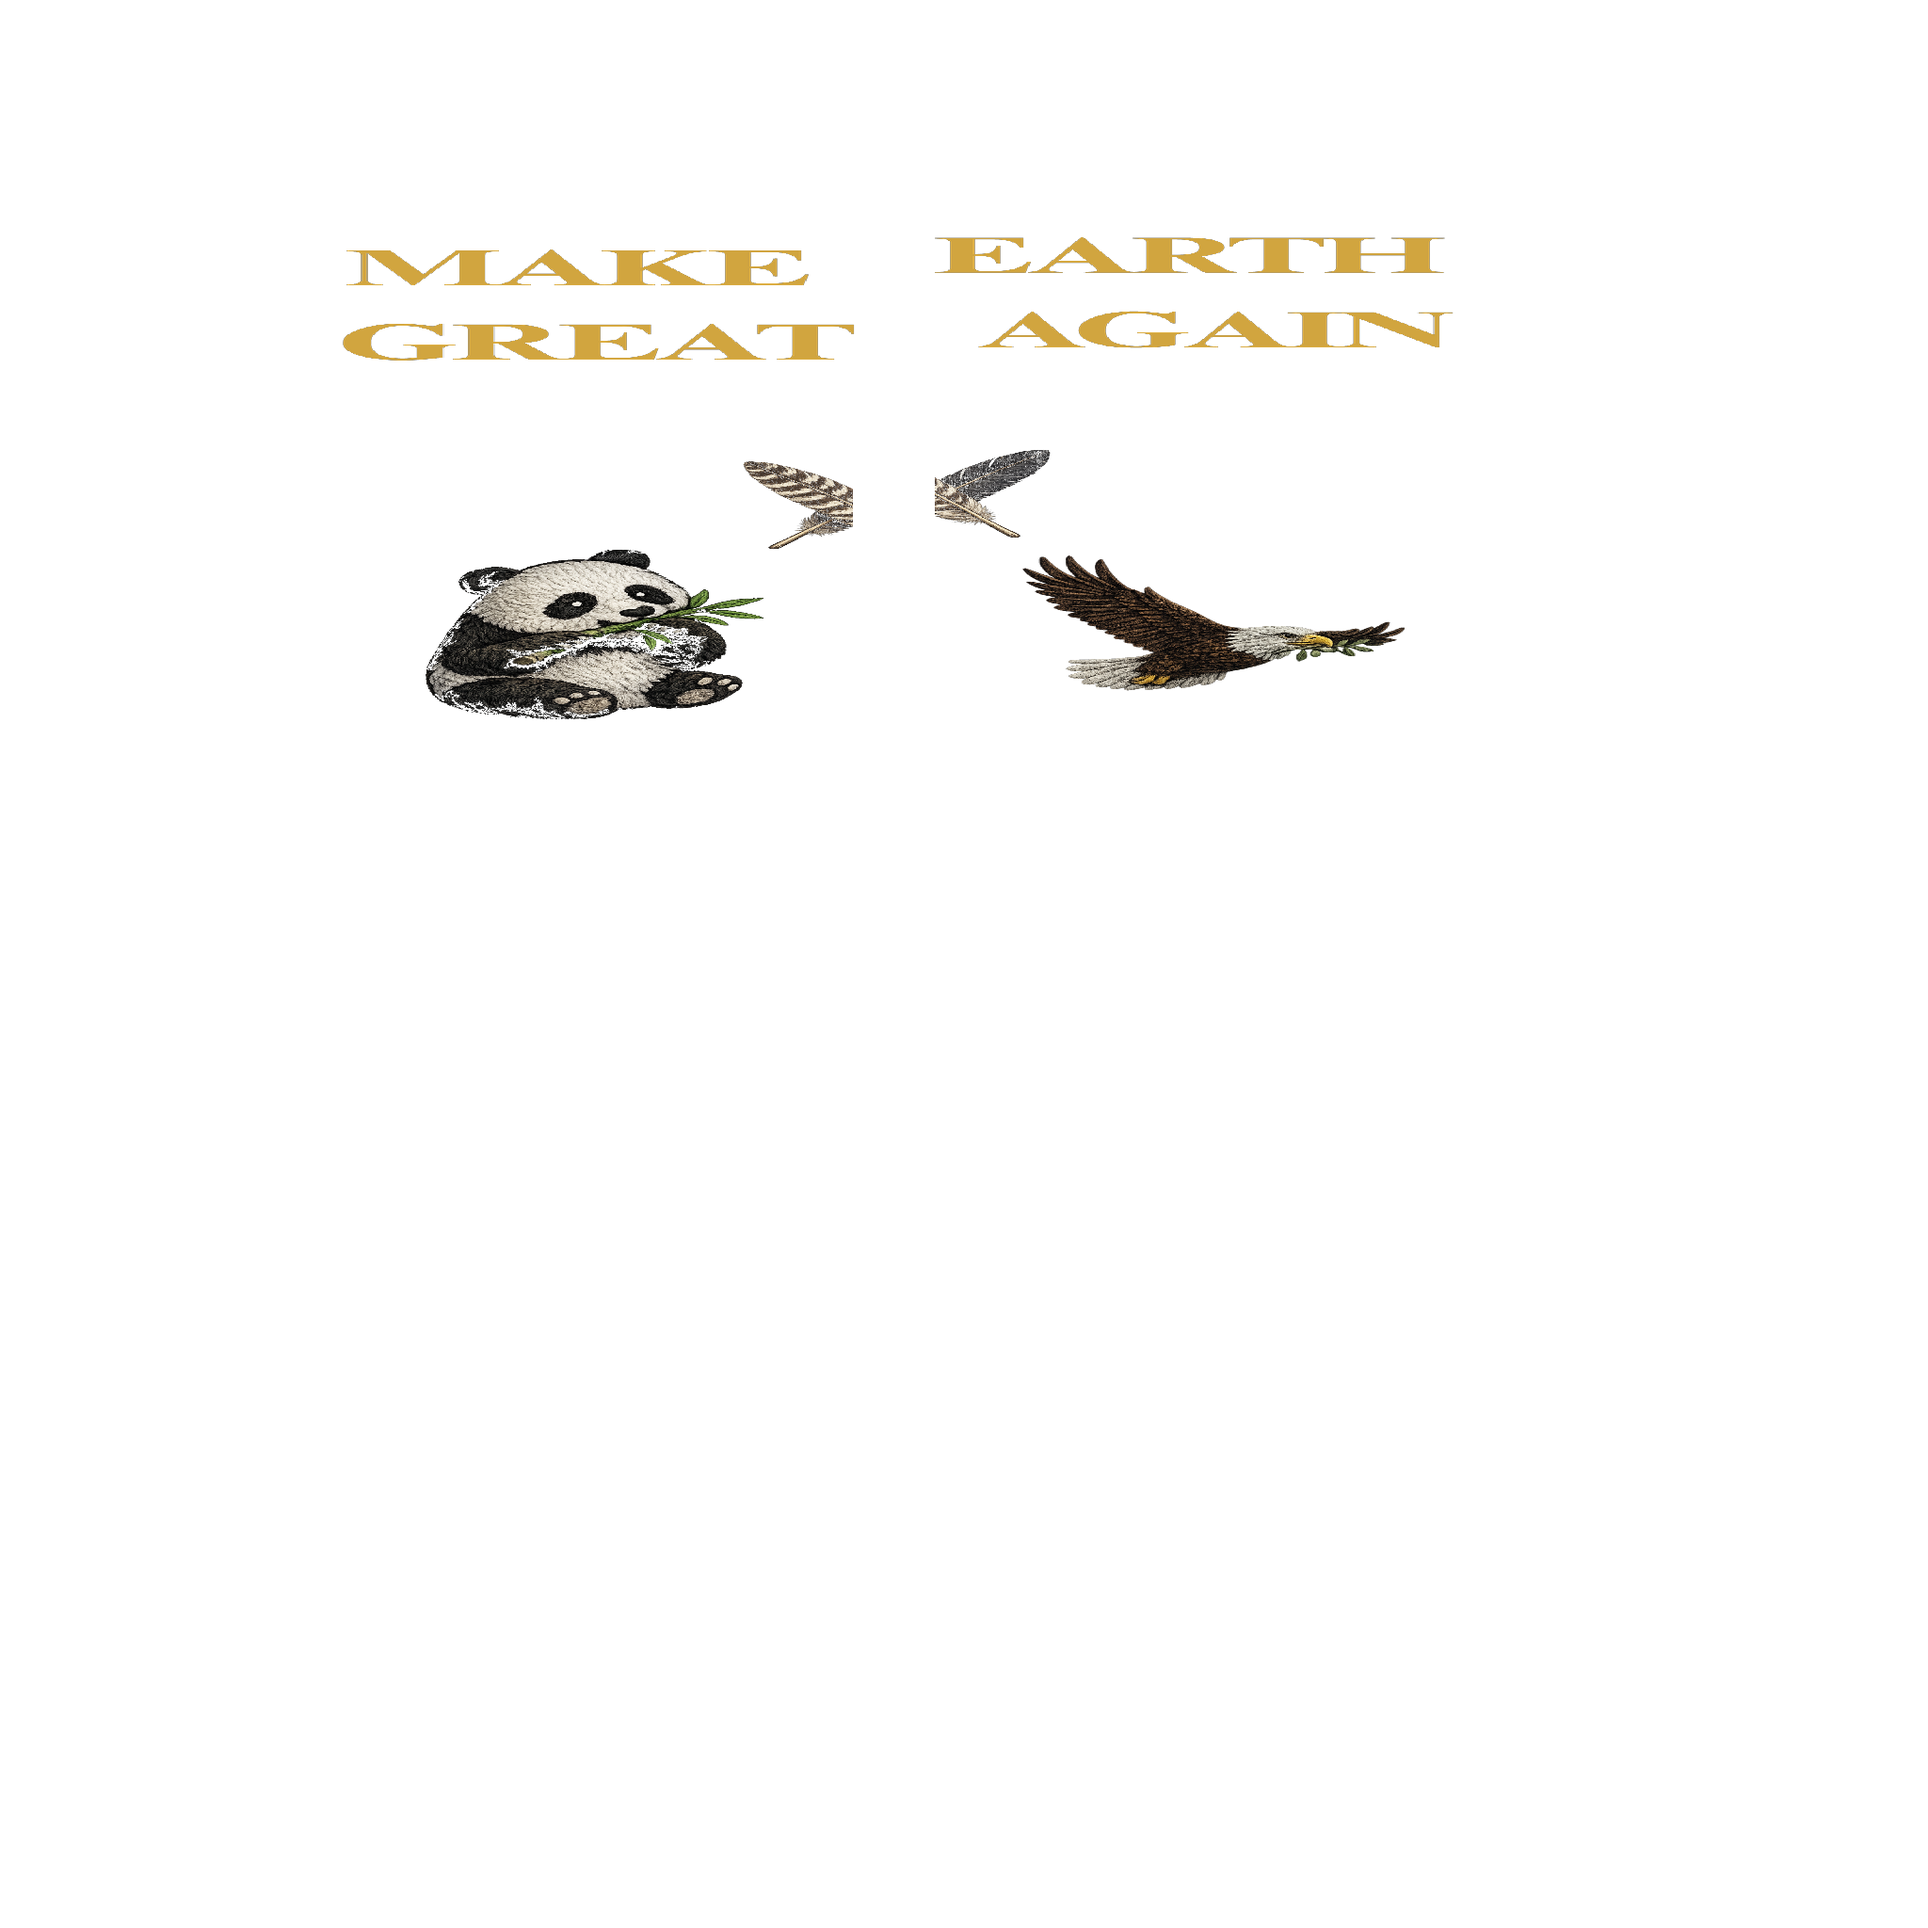
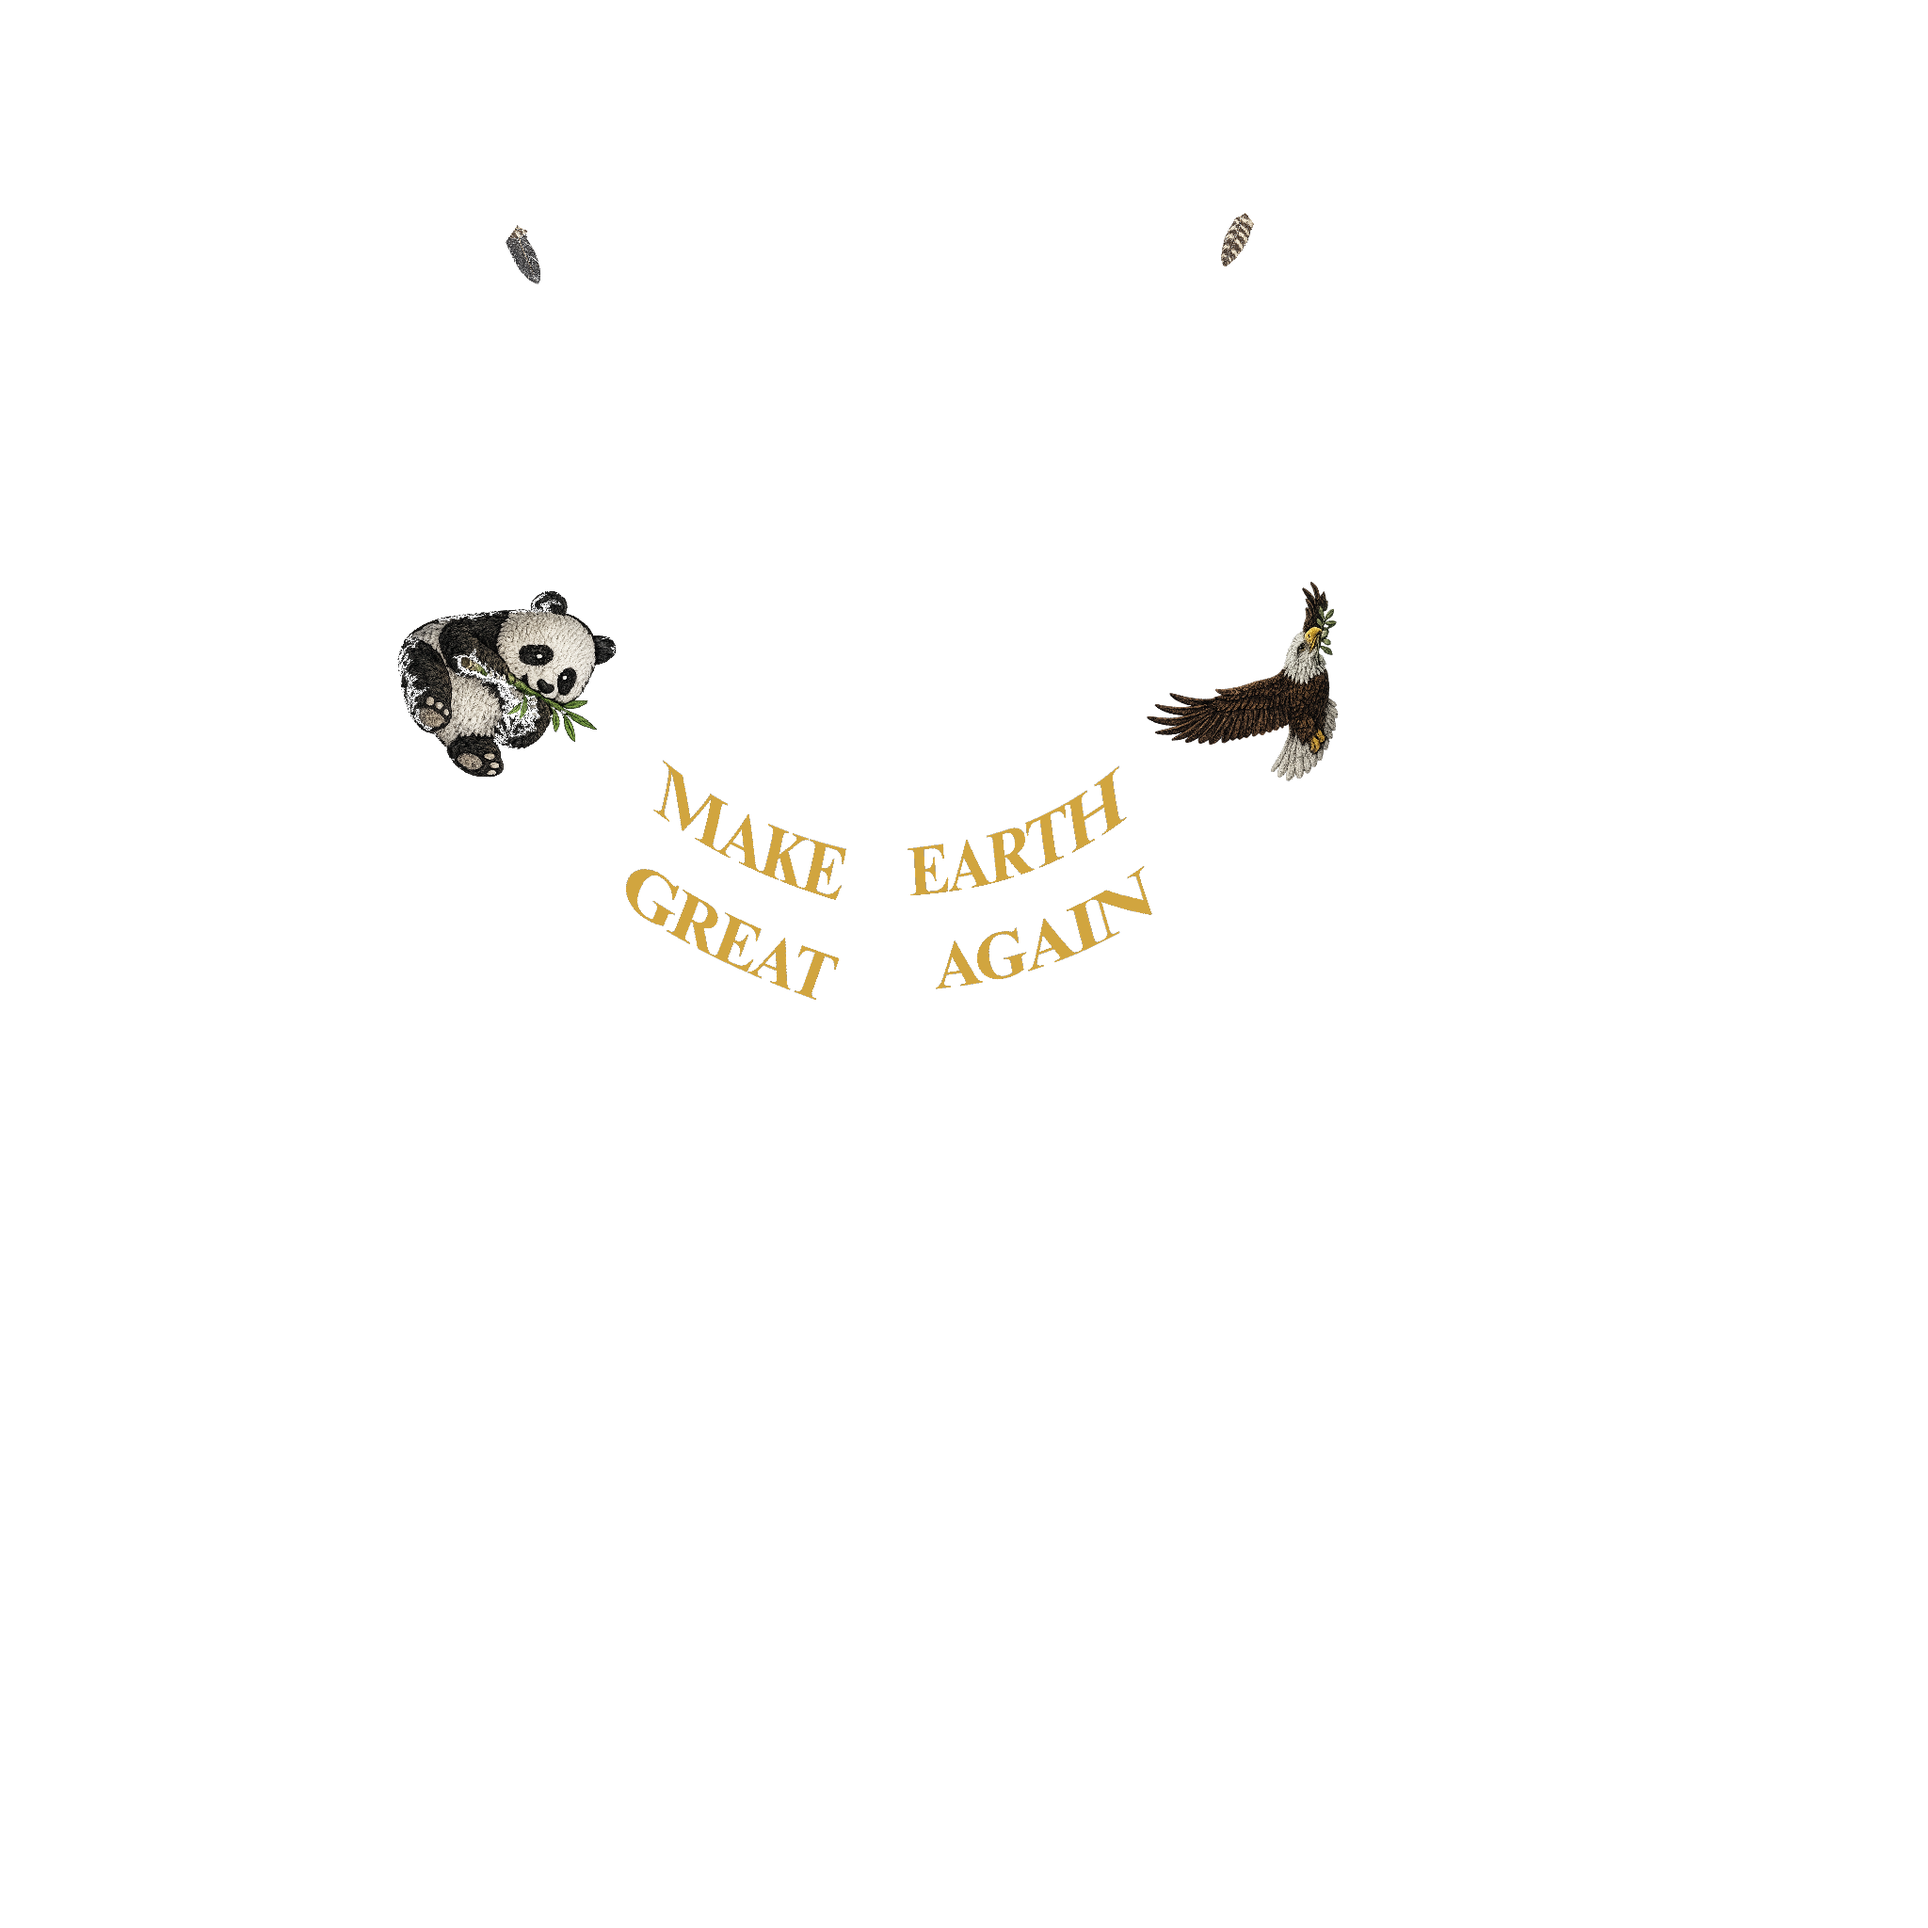
feat(hat): bake MEGA front + side mascots + back feathers via 3D projection
Per-triangle UV rasterizer with barycentric 3D position lookup. Each decal is
projected orthographically from its native panel direction:

  MEGA (MAGA-cap style) on -y front face — full width, bold gold text
  Panda  on -x cap-left side panel
  Eagle  on +x cap-right side panel
  Feathers on +y back panel center

UV islands clustered via DSU on 8-connected grid; only the two big outer
panels (V_min > 0.4, V_max > 0.7) are rasterized — inner shells skipped.
Disjoint 3D AABB zones prevent decals from overpainting one another.

Atlas mapping verified: with Three.js flipY=true, Blender-storage py == glTF V * H.

diff --git a/scripts/bake_cap_decals.py b/scripts/bake_cap_decals.py
@@ -1,0 +1,242 @@
+"""Bake decals — 3D-projection rasterizer (v3, correct mapping).
+
+Per-triangle UV rasterization with barycentric 3D position interpolation.
+For each pixel, project 3D position orthographically onto each decal's tangent
+plane and sample the decal image. First decal whose AABB matches wins.
+
+Cap-local axes (verified):
+  -y = forward (brim), +y = back (strap), +z = up (apex)
+  bbox: x=±4.74, y=[-4.82, +4.54], z=[+0.04, +5.84]
+
+Atlas mapping (verified by inspect-cap.py):
+  outer_left:  U=[0.143, 0.458], V=[0.441, 0.883]
+    front face → V≈0.44, back face → V≈0.88, apex → V≈0.73
+    cap-center seam → U≈0.43, cap-outer → U≈0.18
+  outer_right: U=[0.469, 0.774], V=[0.446, 0.890]
+
+Inner shells exist at V=[0.008, 0.487] — must be filtered out by island.
+
+Three.js flipY=true: atlas Blender-storage py == glTF V * H, direct.
+"""
+import bpy, time
+from mathutils import Vector
+
+GLB = '/Users/z/work/osage/store/public/models/baseball_cap.glb'
+OUT = '/Users/z/work/osage/store/public/images/cap_decals_atlas.png'
+PUB = '/Users/z/work/osage/store/public/images'
+TEX = 2048
+
+bpy.ops.wm.read_factory_settings(use_empty=True)
+bpy.ops.import_scene.gltf(filepath=GLB)
+mainCap = next(o for o in bpy.data.objects
+               if o.type == 'MESH' and o.parent and o.parent.name == 'mainCap')
+me = mainCap.data
+me.calc_loop_triangles()
+uvl = me.uv_layers.active.data
+
+# --- UV-island clustering at the polygon level ---
+poly_meta = []
+for poly in me.polygons:
+    uv_pts = [uvl[li].uv.copy() for li in poly.loop_indices]
+    poly_meta.append({
+        'uv_min': (min(p.x for p in uv_pts), min(p.y for p in uv_pts)),
+        'uv_max': (max(p.x for p in uv_pts), max(p.y for p in uv_pts)),
+    })
+GRID = 0.005
+cells = {}
+for i, p in enumerate(poly_meta):
+    cx = int((p['uv_min'][0] + p['uv_max'][0]) / 2 / GRID)
+    cy = int((p['uv_min'][1] + p['uv_max'][1]) / 2 / GRID)
+    cells.setdefault((cx, cy), []).append(i)
+parent = list(range(len(poly_meta)))
+def find(a):
+    while parent[a] != a:
+        parent[a] = parent[parent[a]]; a = parent[a]
+    return a
+def union(a, b):
+    ra, rb = find(a), find(b)
+    if ra != rb: parent[ra] = rb
+for (cx, cy), pids in cells.items():
+    for dx in (-1, 0, 1):
+        for dy in (-1, 0, 1):
+            if dx == 0 and dy == 0: continue
+            nbr = cells.get((cx+dx, cy+dy))
+            if nbr:
+                for a in pids:
+                    for b in nbr:
+                        union(a, b)
+    if len(pids) > 1:
+        for j in range(1, len(pids)):
+            union(pids[0], pids[j])
+poly_island = [find(i) for i in range(len(poly_meta))]
+# Find the two big outer-panel islands by size + V range.
+island_size = {}
+island_v_min = {}
+island_v_max = {}
+for i, p in enumerate(poly_meta):
+    iid = poly_island[i]
+    island_size[iid] = island_size.get(iid, 0) + 1
+    island_v_min[iid] = min(island_v_min.get(iid, 1.0), p['uv_min'][1])
+    island_v_max[iid] = max(island_v_max.get(iid, 0.0), p['uv_max'][1])
+big = sorted(island_size.items(), key=lambda kv: kv[1], reverse=True)
+outer_islands = set()
+for iid, _ in big:
+    if island_v_min[iid] > 0.4 and island_v_max[iid] > 0.7:
+        outer_islands.add(iid)
+    if len(outer_islands) >= 2: break
+print(f'islands: {len(island_size)} | big-6: {[(iid, island_size[iid], round(island_v_min[iid],3), round(island_v_max[iid],3)) for iid, _ in big]}')
+print(f'outer panels selected: {len(outer_islands)}')
+
+tris = []
+for t in me.loop_triangles:
+    if poly_island[t.polygon_index] not in outer_islands:
+        continue
+    uvs = [uvl[li].uv.copy() for li in t.loops]
+    p3 = [me.vertices[vi].co.copy() for vi in t.vertices]
+    cx_ = (p3[0].x + p3[1].x + p3[2].x) / 3
+    cy_ = (p3[0].y + p3[1].y + p3[2].y) / 3
+    cz_ = (p3[0].z + p3[1].z + p3[2].z) / 3
+    tris.append({'uvs': uvs, 'p3': p3, 'cx': cx_, 'cy': cy_, 'cz': cz_})
+print(f'outer-panel tris: {len(tris)}')
+
+def load_decal(path):
+    img = bpy.data.images.load(path, check_existing=False)
+    img.colorspace_settings.name = 'sRGB'
+    return {'pixels': list(img.pixels), 'w': img.size[0], 'h': img.size[1]}
+
+dimg = {
+    'mega':     load_decal(f'{PUB}/mega_front_text.png'),
+    'eagle':    load_decal(f'{PUB}/eagle_decal.png'),
+    'feathers': load_decal(f'{PUB}/feathers_decal.png'),
+    'panda':    load_decal(f'{PUB}/panda_decal.png'),
+}
+
+def sample(img, sx, sy):
+    if sx < 0.0 or sx >= 1.0 or sy < 0.0 or sy >= 1.0:
+        return None
+    px = int(sx * img['w'])
+    py = int(sy * img['h'])
+    if px >= img['w']: px = img['w'] - 1
+    if py >= img['h']: py = img['h'] - 1
+    idx = (py * img['w'] + px) * 4
+    p = img['pixels']
+    return (p[idx], p[idx+1], p[idx+2], p[idx+3])
+
+# Disjoint zones: any pixel matches at most ONE decal.
+#   front face (y < -1.5): MEGA
+#   back face (y > +1.5):
+#     |x| < 1.0 → feathers (back-center)
+#     +1.0 < x → eagle (back-cap-right, viewer-LEFT in back view)
+#     x < -1.0 → panda (back-cap-left, viewer-RIGHT in back view)
+# MEGA aspect 1024:407 ≈ 2.515.
+
+decals = [
+    # FRONT face (-y direction). MAGA-cap style: large, bold, full width.
+    dict(name='mega', img=dimg['mega'],
+         center=Vector((0.0, -3.5, 2.6)),
+         du=Vector((1, 0, 0)), dv=Vector((0, 0, 1)),
+         half_w=3.2, half_h=3.2/2.515,
+         x_lo=-4.0, x_hi=+4.0, y_lo=-5.0, y_hi=-1.0, z_lo=0.5, z_hi=5.4),
+    # CAP-LEFT side panel (-x direction). Project from -x looking +x. Viewer's right = -y (front), up = +z.
+    dict(name='panda', img=dimg['panda'],
+         center=Vector((-3.6, 0.0, 2.6)),
+         du=Vector((0, -1, 0)), dv=Vector((0, 0, 1)),
+         half_w=1.5, half_h=1.5,
+         x_lo=-5.0, x_hi=-1.5, y_lo=-2.0, y_hi=+2.0, z_lo=0.6, z_hi=4.8),
+    # CAP-RIGHT side panel (+x direction). Project from +x looking -x. Viewer's right = +y (back), up = +z.
+    dict(name='eagle', img=dimg['eagle'],
+         center=Vector((+3.6, 0.0, 2.6)),
+         du=Vector((0, +1, 0)), dv=Vector((0, 0, 1)),
+         half_w=1.5, half_h=1.5,
+         x_lo=+1.5, x_hi=+5.0, y_lo=-2.0, y_hi=+2.0, z_lo=0.6, z_hi=4.8),
+    # BACK panel center (+y direction). Project from +y looking -y. Viewer's right = -x, up = +z.
+    dict(name='feathers', img=dimg['feathers'],
+         center=Vector((0.0, +3.6, 2.6)),
+         du=Vector((-1, 0, 0)), dv=Vector((0, 0, 1)),
+         half_w=1.2, half_h=1.2,
+         x_lo=-1.4, x_hi=+1.4, y_lo=+2.0, y_hi=+5.0, z_lo=1.0, z_hi=4.4),
+]
+
+atlas = [0.0] * (TEX * TEX * 4)
+hits = {d['name']: 0 for d in decals}
+
+def edge(ax, ay, bx, by, cx, cy):
+    return (bx-ax)*(cy-ay) - (by-ay)*(cx-ax)
+
+t0 = time.time()
+n_used = 0
+for ti, tri in enumerate(tris):
+    if ti % 4000 == 0:
+        print(f'  tri {ti}/{len(tris)} ({time.time()-t0:.1f}s) used={n_used}')
+    cx_, cy_, cz_ = tri['cx'], tri['cy'], tri['cz']
+    eligible = []
+    for d in decals:
+        if d['x_lo']-0.4 <= cx_ <= d['x_hi']+0.4 and \
+           d['y_lo']-0.4 <= cy_ <= d['y_hi']+0.4 and \
+           d['z_lo']-0.4 <= cz_ <= d['z_hi']+0.4:
+            eligible.append(d)
+    if not eligible:
+        continue
+    n_used += 1
+
+    uvs = tri['uvs']; p3 = tri['p3']
+    px0, py0 = uvs[0].x*TEX, uvs[0].y*TEX
+    px1, py1 = uvs[1].x*TEX, uvs[1].y*TEX
+    px2, py2 = uvs[2].x*TEX, uvs[2].y*TEX
+    pxmin = max(0, int(min(px0, px1, px2)))
+    pxmax = min(TEX-1, int(max(px0, px1, px2)) + 1)
+    pymin = max(0, int(min(py0, py1, py2)))
+    pymax = min(TEX-1, int(max(py0, py1, py2)) + 1)
+    if pxmax < pxmin or pymax < pymin: continue
+
+    area = edge(px0, py0, px1, py1, px2, py2)
+    if abs(area) < 1e-9: continue
+    inv_area = 1.0 / area
+    p0, p1, p2 = p3[0], p3[1], p3[2]
+
+    for py in range(pymin, pymax + 1):
+        py_c = py + 0.5
+        for px in range(pxmin, pxmax + 1):
+            px_c = px + 0.5
+            w0 = edge(px1, py1, px2, py2, px_c, py_c) * inv_area
+            w1 = edge(px2, py2, px0, py0, px_c, py_c) * inv_area
+            w2 = edge(px0, py0, px1, py1, px_c, py_c) * inv_area
+            if w0 < 0 or w1 < 0 or w2 < 0: continue
+            wx = p0.x*w0 + p1.x*w1 + p2.x*w2
+            wy = p0.y*w0 + p1.y*w1 + p2.y*w2
+            wz = p0.z*w0 + p1.z*w1 + p2.z*w2
+
+            for d in eligible:
+                if not (d['x_lo'] <= wx <= d['x_hi']): continue
+                if not (d['y_lo'] <= wy <= d['y_hi']): continue
+                if not (d['z_lo'] <= wz <= d['z_hi']): continue
+                rx = wx - d['center'].x
+                ry = wy - d['center'].y
+                rz = wz - d['center'].z
+                u_d = (rx*d['du'].x + ry*d['du'].y + rz*d['du'].z) / d['half_w']
+                v_d = (rx*d['dv'].x + ry*d['dv'].y + rz*d['dv'].z) / d['half_h']
+                if -1.0 <= u_d <= 1.0 and -1.0 <= v_d <= 1.0:
+                    sx = (u_d + 1.0) * 0.5
+                    sy = (v_d + 1.0) * 0.5
+                    rgba = sample(d['img'], sx, sy)
+                    if rgba is None or rgba[3] < 0.02: continue
+                    i = (py * TEX + px) * 4
+                    a = rgba[3]
+                    inv = 1.0 - a
+                    atlas[i]   = rgba[0] * a + atlas[i]   * inv
+                    atlas[i+1] = rgba[1] * a + atlas[i+1] * inv
+                    atlas[i+2] = rgba[2] * a + atlas[i+2] * inv
+                    atlas[i+3] = a + atlas[i+3] * inv
+                    hits[d['name']] += 1
+                    break
+
+print(f'\nbake done in {time.time()-t0:.1f}s')
+for k, v in hits.items():
+    print(f'  {k}: {v}')
+
+img = bpy.data.images.new('cap_decals_atlas', width=TEX, height=TEX, alpha=True)
+img.pixels = atlas
+img.filepath_raw = OUT
+img.file_format = 'PNG'
+img.save()
+print(f'Saved {OUT}')
